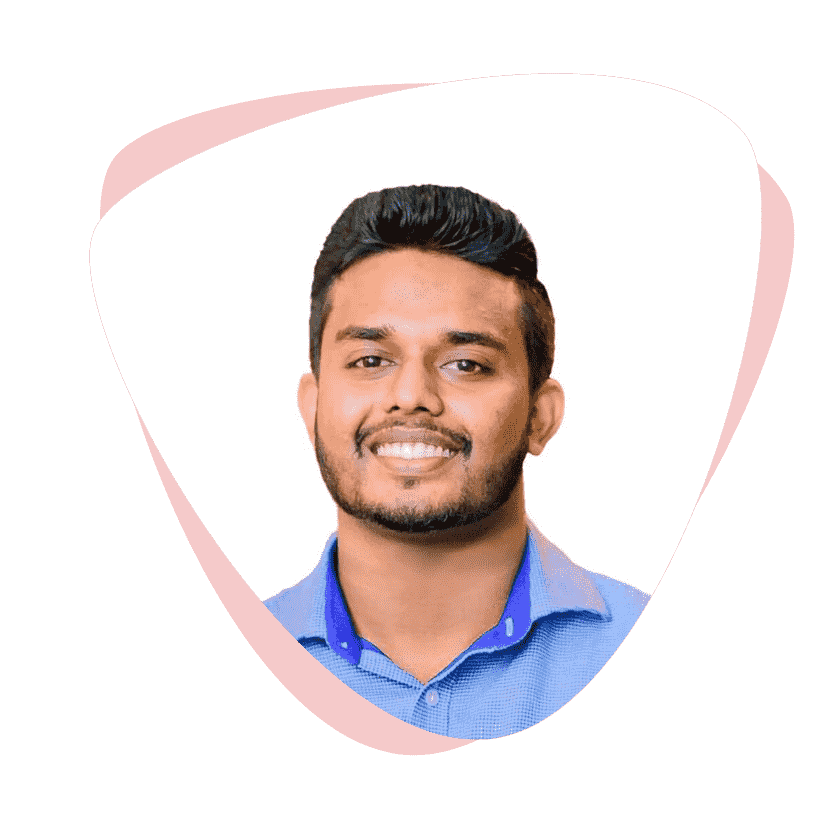
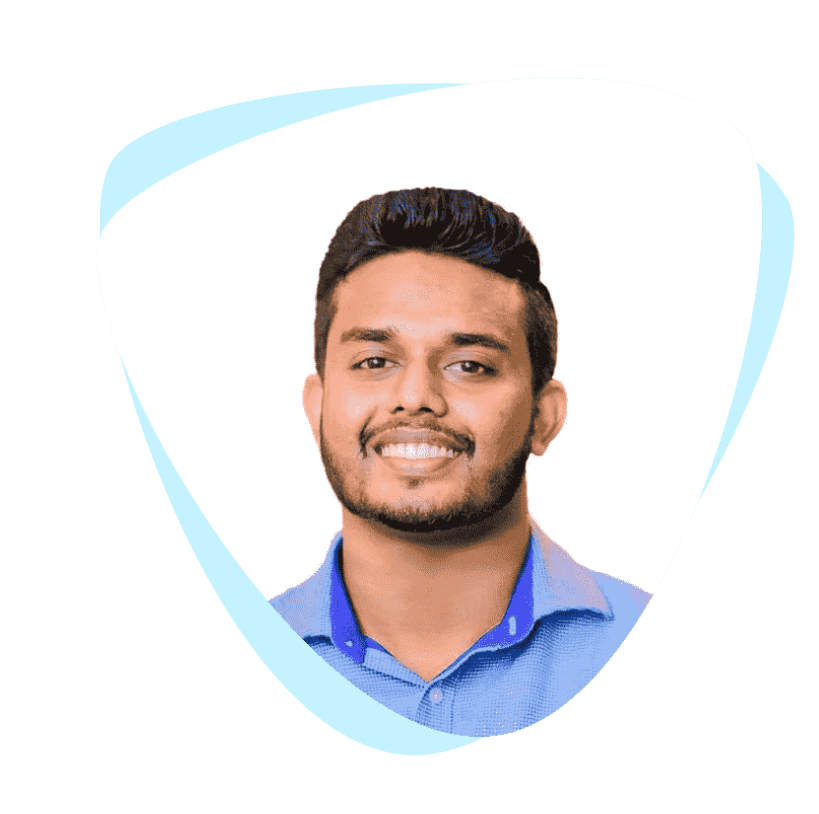
Add scroll animation and UI improvements

Changed region(s): [[0.1526, 0.215, 0.7937, 0.9521], [0.1221, 0.0921, 0.58, 0.2764], [0.8547, 0.1843, 0.9768, 0.6143]]

diff --git a/src/features/Home/index.js b/src/features/Home/index.js
@@ -1,19 +1,23 @@
 import React from 'react';
+import { Link } from 'react-router-dom';
+import { Container } from 'semantic-ui-react';
 import dpImage from '../../assets/images/dp.png';
+import chevron from '../../assets/icons/chevron.svg';
+import MouseScroll from '../../components/MouseScroll';
 
 function Home() {
   return (
-    <div className="home flex justify-center">
+    <Container className="home flex justify-center">
       <section className="min-h-screen container flex justify-center items-center flex-col">
         <div className="flex flex-row items-center">
           <div className="flex flex-col">
-            <span className="text-gray-500 dark:text-white home__greet">
+            <span className="text-opacity-60 text-black dark:text-white dark:text-opacity-60 home__greet">
               Hi, my name is
             </span>
-            <span className="text-gray-500 dark:text-white home__name--first">
+            <span className="text-opacity-60 text-black dark:text-white dark:text-opacity-60 home__name--first">
               Sivantha
             </span>
-            <span className="text-gray-500 dark:text-white home__name--last">
+            <span className="text-opacity-60 text-black dark:text-white dark:text-opacity-60 home__name--last">
               Paranavithana
             </span>
           </div>
@@ -25,13 +29,29 @@ function Home() {
             className="home__dp"
           />
         </div>
-        <span className="text-gray-500 dark:text-white home__description">
+        <span className="text-opacity-60 text-black dark:text-white dark:text-opacity-60 home__description">
           I am a Full Stack Developer and a Designer
           <br />
           from Colombo, Sri Lanka.
         </span>
+        <Link className="pf-link" to="/signup">
+          <span className="text-opacity-60 text-black dark:text-white dark:text-opacity-60">
+            {' '}
+            More about me
+          </span>
+          <img
+            src={chevron}
+            id="chevron"
+            className="opacity-50 dark:filter-dark dark:opacity-50 ml-3 hover:fill-current"
+            alt="chevron"
+            height="20"
+            width="20"
+          />
+        </Link>
+
+        <MouseScroll />
       </section>
-    </div>
+    </Container>
   );
 }
 

diff --git a/src/theme/components/_components.mouse-scroll.scss b/src/theme/components/_components.mouse-scroll.scss
@@ -1,0 +1,58 @@
+.pf-mouse-scroll {
+  display: block;
+  margin: 0 auto;
+  display: flex;
+  flex-direction: column;
+  align-items: center;
+  box-sizing: border-box;
+  opacity: 0.5;
+  position: absolute;
+  bottom: 2rem;
+  transition: all ease;
+
+  &__mouse {
+    height: 34px;
+    width: 20px;
+    border-radius: 14px;
+    transform: none;
+    border: 2px solid currentColor;
+    top: 170px;
+    margin-bottom: 4px;
+  }
+
+  &__wheel {
+    height: 5px;
+    width: 2px;
+    display: block;
+    margin: 5px auto;
+    background: currentColor;
+    position: relative;
+    border: 2px solid currentColor;
+    border-radius: 8px;
+    -webkit-animation: mouse-wheel 0.6s linear infinite;
+    -moz-animation: mouse-wheel 0.6s linear infinite;
+    animation: mouse-wheel 0.6s linear infinite;
+  }
+
+  &__arrow {
+    display: block;
+    transform: rotate(45deg);
+    border-right: 2px solid currentColor;
+    border-bottom: 2px solid currentColor;
+    margin: auto;
+    width: 8px;
+    height: 8px;
+    -webkit-animation: mouse-scroll 1s linear infinite;
+    -moz-animation: mouse-scroll 1s linear infinite;
+    animation: mouse-scroll 1s linear infinite;
+    -webkit-animation-direction: alternate;
+    animation-direction: alternate;
+    animation-delay: 0.1s;
+    margin-bottom: 0.5rem;
+  }
+
+  &__text {
+    white-space: nowrap;
+    font-size: 12px;
+  }
+}

diff --git a/src/theme/utilities/_utilities.animations-mouse-scroll.scss b/src/theme/utilities/_utilities.animations-mouse-scroll.scss
@@ -1,0 +1,111 @@
+@-webkit-keyframes mouse-wheel {
+  0% {
+    opacity: 1;
+    -webkit-transform: translateY(0);
+    -ms-transform: translateY(0);
+    transform: translateY(0);
+  }
+
+  100% {
+    opacity: 0;
+    -webkit-transform: translateY(6px);
+    -ms-transform: translateY(6px);
+    transform: translateY(6px);
+  }
+}
+@-moz-keyframes mouse-wheel {
+  0% {
+    top: 1px;
+  }
+  25% {
+    top: 2px;
+  }
+  50% {
+    top: 3px;
+  }
+  75% {
+    top: 2px;
+  }
+  100% {
+    top: 1px;
+  }
+}
+@-o-keyframes mouse-wheel {
+  0% {
+    top: 1px;
+  }
+  25% {
+    top: 2px;
+  }
+  50% {
+    top: 3px;
+  }
+  75% {
+    top: 2px;
+  }
+  100% {
+    top: 1px;
+  }
+}
+@keyframes mouse-wheel {
+  0% {
+    top: 1px;
+  }
+  25% {
+    top: 2px;
+  }
+  50% {
+    top: 3px;
+  }
+  75% {
+    top: 2px;
+  }
+  100% {
+    top: 1px;
+  }
+}
+
+@-webkit-keyframes mouse-scroll {
+  0% {
+    opacity: 0;
+  }
+  50% {
+    opacity: 0.5;
+  }
+  100% {
+    opacity: 1;
+  }
+}
+@-moz-keyframes mouse-scroll {
+  0% {
+    opacity: 0;
+  }
+  50% {
+    opacity: 0.5;
+  }
+  100% {
+    opacity: 1;
+  }
+}
+@-o-keyframes mouse-scroll {
+  0% {
+    opacity: 0;
+  }
+  50% {
+    opacity: 0.5;
+  }
+  100% {
+    opacity: 1;
+  }
+}
+@keyframes mouse-scroll {
+  0% {
+    opacity: 0;
+  }
+  50% {
+    opacity: 0.5;
+  }
+  100% {
+    opacity: 1;
+  }
+}

diff --git a/src/components/Header.js b/src/components/Header.js
@@ -2,7 +2,6 @@ import React, { useEffect } from 'react';
 import { useDispatch, useSelector } from 'react-redux';
 import toggleIcon from '../assets/icons/darkModeToggle.svg';
 import terminalIcon from '../assets/icons/terminal.svg';
-
 import linkedinIcon from '../assets/icons/linkedin.svg';
 import githubIcon from '../assets/icons/github.svg';
 import behanceIcon from '../assets/icons/behance.svg';
@@ -57,10 +56,10 @@ export const Header = () => {
           />
           <img
             src={terminalIcon}
-            id="dark-mode-toggle"
-            className="header__icon transition-all dark:filter-dark	"
+            id="terminal-toggle"
+            className="header__icon transition-all dark:filter-dark	invisible md:visible"
             onClick={() => dispatch(appActions.toggleTerminal())}
-            alt="dark-mode-toggle"
+            alt="terminal-toggle"
             height="20"
             width="20"
           />

diff --git a/src/theme/components/_components.terminal.scss b/src/theme/components/_components.terminal.scss
@@ -3,7 +3,7 @@
   z-index: 999;
   bottom: 0;
   height: 30vh;
-  background-color: $black-color;
+  background-color: $clr-black;
   overflow: auto;
   white-space: pre;
   -ms-overflow-style: none;
@@ -21,12 +21,12 @@
     align-items: center;
     padding-bottom: 7px;
     margin-bottom: 10px;
-    background-color: $gray-color;
+    background-color: $clr-gray;
   }
 
   &__content {
     font-family: $ff-monospace;
-    color: $white-color;
+    color: $clr-white;
     border: none;
     outline: none;
     white-space: pre;
@@ -38,8 +38,8 @@
   }
 
   &__input {
-    background-color: $black-color;
-    color: $white-color;
+    background-color: $clr-black;
+    color: $clr-white;
     font-family: $ff-monospace;
     outline: none;
     border: none !important;

diff --git a/src/components/MouseScroll.js b/src/components/MouseScroll.js
@@ -1,0 +1,17 @@
+import React from 'react';
+
+export default function MouseScroll() {
+  return (
+    <div className="pf-mouse-scroll text-black dark:text-white">
+      <div className="pf-mouse-scroll__mouse">
+        <div className="pf-mouse-scroll__wheel"></div>
+      </div>
+      <div>
+        <span className="pf-mouse-scroll__arrow"></span>
+        <span className="pf-mouse-scroll__text  text-black dark:text-white">
+          Scroll Down
+        </span>
+      </div>
+    </div>
+  );
+}

diff --git a/src/theme/settings/_settings.color.scss b/src/theme/settings/_settings.color.scss
@@ -1,7 +1,16 @@
-$primary-color: #e57575;
+$clr-primary: #e57575;
+$clr-primary-75: #e57575bf;
+$clr-primary-50: #e5757580;
+$clr-primary-25: #e5757540;
 
-$background-color-primary: #ffffff;
+$clr-white: #ffffff;
+$clr-white-75: #ffffffbf;
+$clr-white-50: #ffffff80;
+$clr-white-25: #ffffff40;
 
-$black-color: #000000;
-$white-color: #ffffff;
-$gray-color: #1c1c1c;
+$clr-black: #000000;
+$clr-black-75: #000000bf;
+$clr-black-50: #00000080;
+$clr-black-25: #00000040;
+
+$clr-gray: #808080;

diff --git a/src/theme/index.scss b/src/theme/index.scss
@@ -7,6 +7,7 @@
 
 // utilities
 @import './utilities/utilities.tailwind';
+@import './utilities/utilities.animations-mouse-scroll';
 
 // features
 @import './features/feature.home';
@@ -14,3 +15,5 @@
 // components
 @import './components/components.terminal';
 @import './components/components.header';
+@import './components/components.link';
+@import './components/components.mouse-scroll';

diff --git a/src/theme/features/_feature.home.scss b/src/theme/features/_feature.home.scss
@@ -7,7 +7,7 @@
   &__greet {
     font-size: 4vmin;
     line-height: 5vmin;
-    font-weight: 200;
+    font-weight: 300;
   }
 
   &__name {
@@ -19,7 +19,7 @@
     &--last {
       font-size: 6vmin;
       line-height: 6vmin;
-      font-weight: 200;
+      font-weight: 300;
     }
   }
 

diff --git a/src/theme/components/_components.link.scss b/src/theme/components/_components.link.scss
@@ -1,0 +1,14 @@
+.pf-link {
+  display: flex;
+  flex-direction: row;
+  padding: 1rem 1.5rem;
+  margin: 1rem;
+  border-radius: 0.5rem;
+  cursor: pointer;
+  transition: all 0.3s ease;
+
+  &:hover {
+    opacity: 0.7;
+    color: $clr-primary;
+  }
+}
